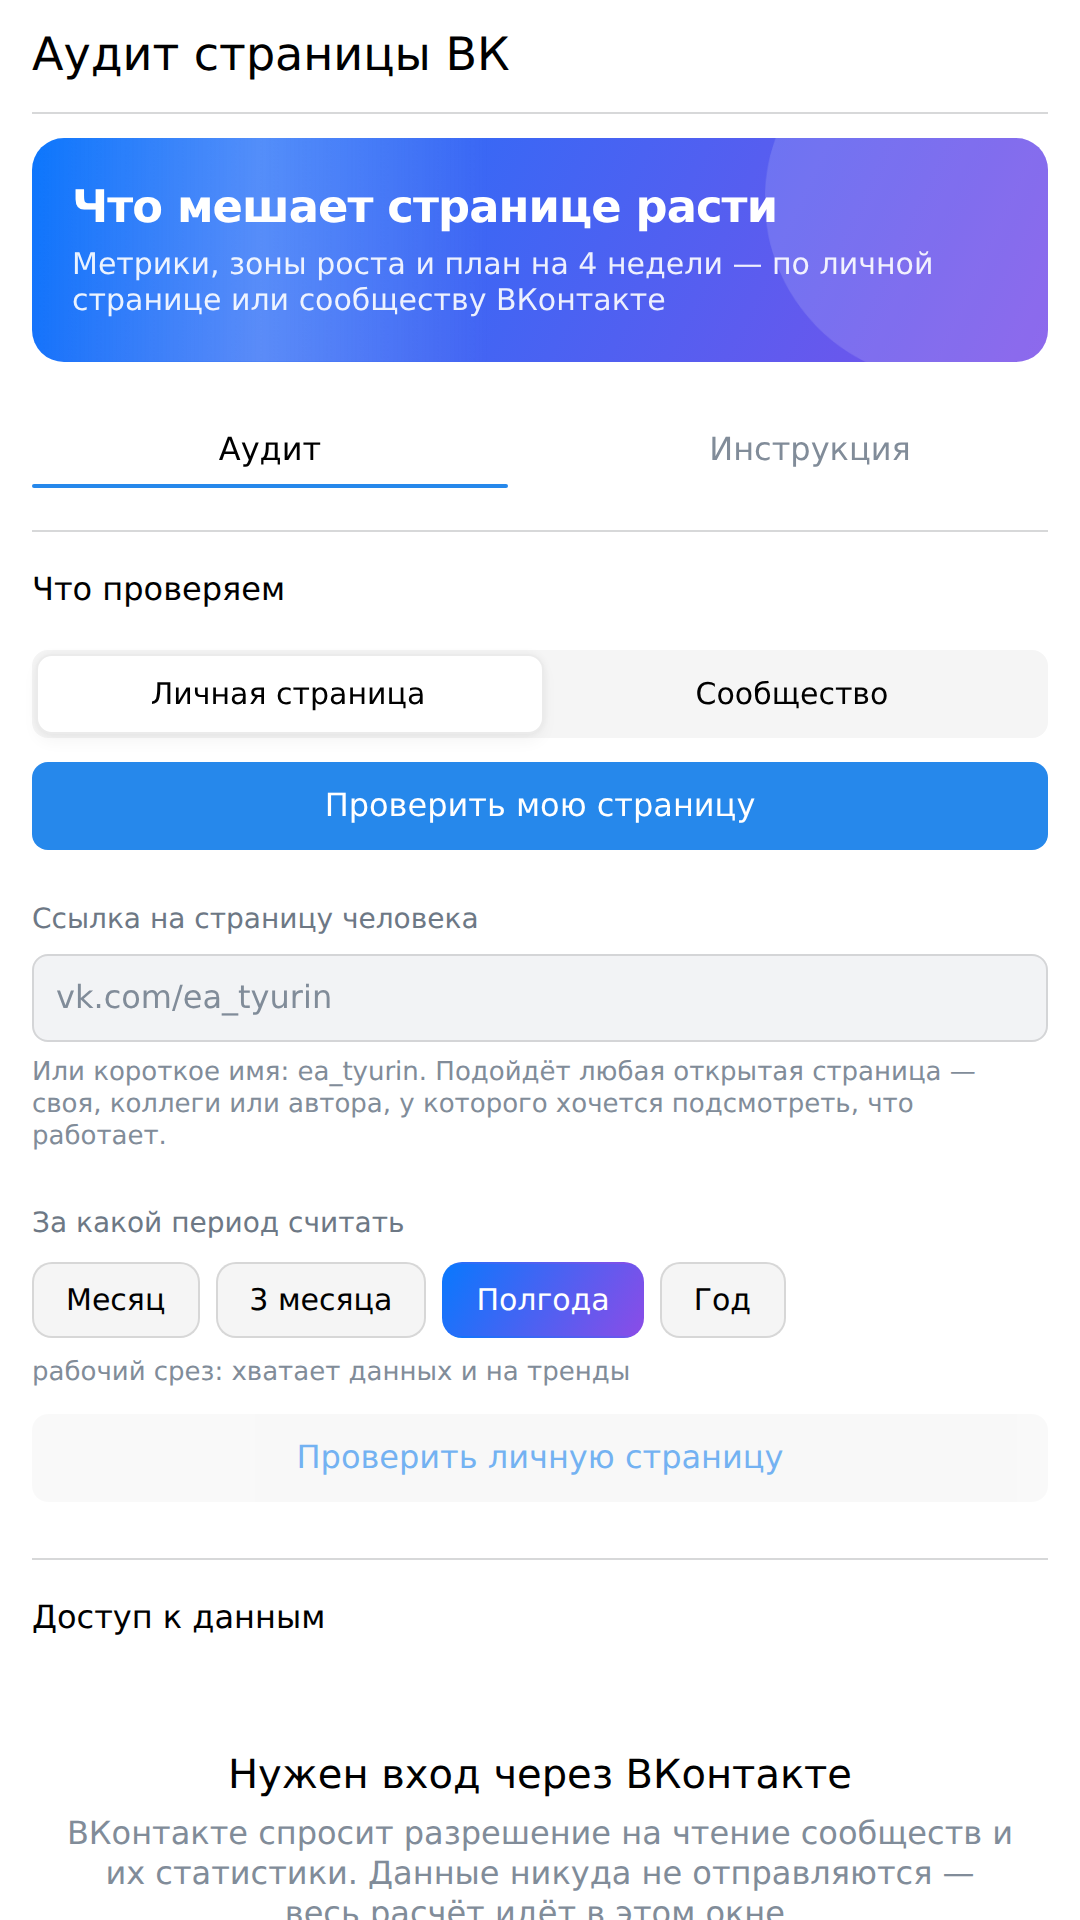
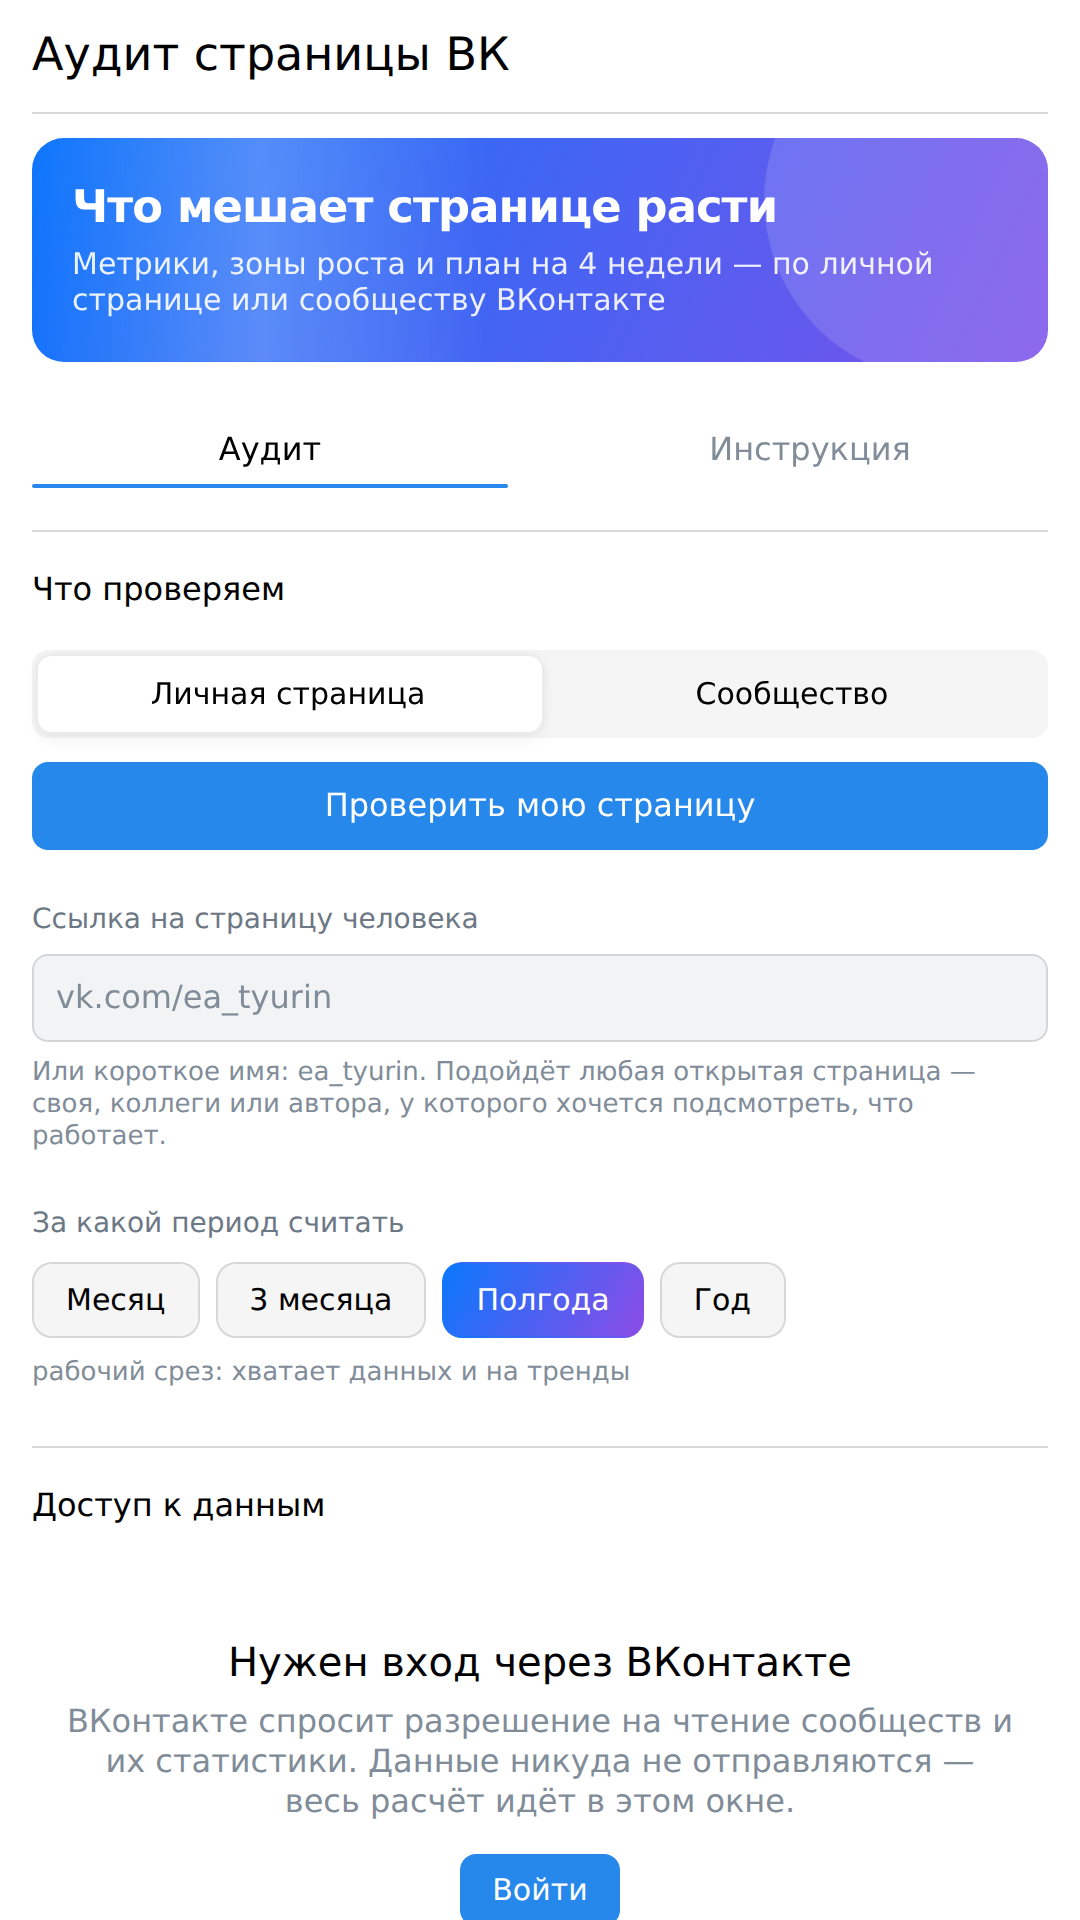
Свайпы в инструкции, убрана неактивная кнопка под периодом
Кнопка «Проверить личную страницу» больше не висит серой под пустым
полем: она появляется вместе с адресом. Неактивная кнопка ничего
не сообщает, а место занимает — особенно рядом с работающей
«Проверить мою страницу», из-за чего казалось, что сломано.

Инструкция листается пальцем. Порог 48 пикселей, и горизонтальное
движение должно перевешивать вертикальное в 1,6 раза — иначе страница
перестала бы прокручиваться: почти любая прокрутка идёт немного вбок.
Экран выезжает с той стороны, откуда пришёл палец.

Под шагами — стрелки, точки-индикатор и подпись «Шаг N из 6».
Вкладки остались: свайп удобен на телефоне, но с компьютера листать
нечем, поэтому там же работают стрелки на клавиатуре.

Свайп проверен настоящими событиями касания через CDP, а не вызовом
обработчика: после движения справа налево приложение показывает
второй шаг.

Скриншоты пересняты — на них теперь стартовый экран без серой кнопки.

Claude-Session: https://claude.ai/code/session_01EZgieUKmpH6o8bzon8hGGc

Changed region(s): [[0.0611, 0.8438, 0.9472, 1.0], [0.0306, 0.75, 0.7333, 0.875]]

diff --git a/apps/vk-audit/src/components/GuideView.tsx b/apps/vk-audit/src/components/GuideView.tsx
@@ -1,5 +1,7 @@
-import { useState } from 'react';
-import { Div, Group, Header, HorizontalScroll, Tabs, TabsItem } from '@vkontakte/vkui';
+import { useCallback, useEffect, useRef, useState } from 'react';
+import {
+  Button, Div, Footnote, Group, Header, HorizontalScroll, Tabs, TabsItem,
+} from '@vkontakte/vkui';
 
 /**
  * Вкладка «Инструкция»: что показывает каждый экран отчёта.
@@ -99,21 +101,72 @@ const STEPS: Step[] = [
   },
 ];
 
+/** Насколько палец должен уехать вбок, чтобы это считалось листанием. */
+const SWIPE_DISTANCE = 48;
+
+/**
+ * И насколько горизонтальное движение должно перевешивать вертикальное.
+ * Без этого страница перестала бы прокручиваться: почти любая прокрутка
+ * идёт немного вбок.
+ */
+const SWIPE_RATIO = 1.6;
+
 export function GuideView() {
-  const [active, setActive] = useState(STEPS[0].id);
-  const step = STEPS.find((s) => s.id === active) ?? STEPS[0];
+  const [index, setIndex] = useState(0);
+  // направление последнего перехода — от него зависит, с какой стороны
+  // выезжает новый экран
+  const [dir, setDir] = useState<'left' | 'right'>('left');
+  const touch = useRef<{ x: number; y: number } | null>(null);
+
+  const step = STEPS[index];
+
+  const go = useCallback((next: number) => {
+    const clamped = Math.max(0, Math.min(STEPS.length - 1, next));
+    if (clamped === index) return;
+    setDir(clamped > index ? 'left' : 'right');
+    setIndex(clamped);
+  }, [index]);
+
+  // стрелки на клавиатуре — для тех, кто открыл приложение с компьютера
+  useEffect(() => {
+    const onKey = (e: KeyboardEvent) => {
+      if (e.key === 'ArrowRight') go(index + 1);
+      if (e.key === 'ArrowLeft') go(index - 1);
+    };
+    window.addEventListener('keydown', onKey);
+    return () => window.removeEventListener('keydown', onKey);
+  }, [go, index]);
+
+  const onTouchStart = (e: React.TouchEvent) => {
+    const point = e.changedTouches[0];
+    touch.current = { x: point.clientX, y: point.clientY };
+  };
+
+  const onTouchEnd = (e: React.TouchEvent) => {
+    const start = touch.current;
+    touch.current = null;
+    if (!start) return;
+
+    const point = e.changedTouches[0];
+    const dx = point.clientX - start.x;
+    const dy = point.clientY - start.y;
+    if (Math.abs(dx) < SWIPE_DISTANCE) return;
+    if (Math.abs(dx) < Math.abs(dy) * SWIPE_RATIO) return;
+
+    go(dx < 0 ? index + 1 : index - 1);
+  };
 
   return (
     <>
       <Group>
         <Tabs layoutFillMode="shrinked" withScrollToSelectedTab scrollBehaviorToSelectedTab="center">
           <HorizontalScroll arrowSize="m">
-            {STEPS.map((item) => (
+            {STEPS.map((item, i) => (
               <TabsItem
                 key={item.id}
                 id={item.id}
-                selected={item.id === active}
-                onClick={() => setActive(item.id)}
+                selected={i === index}
+                onClick={() => go(i)}
               >
                 {item.tab}
               </TabsItem>
@@ -123,12 +176,16 @@ export function GuideView() {
       </Group>
 
       <Group header={<Header>{step.title}</Header>}>
-        <Div>
-          <p className="guide__lead rise">{step.lead}</p>
+        <Div
+          className={`guide__slide guide__slide--${dir}`}
+          key={step.id}
+          onTouchStart={onTouchStart}
+          onTouchEnd={onTouchEnd}
+        >
+          <p className="guide__lead">{step.lead}</p>
 
-          <div className="guide__shot rise rise-1">
+          <div className="guide__shot">
             <img
-              key={step.screen}
               src={`./screens/${step.screen}`}
               alt={step.title}
               loading="lazy"
@@ -138,14 +195,48 @@ export function GuideView() {
           </div>
 
           <ul className="guide__list">
-            {step.points.map(([term, text], i) => (
-              <li key={term} className={`guide__point rise rise-${Math.min(i + 2, 6)}`}>
+            {step.points.map(([term, text]) => (
+              <li key={term} className="guide__point">
                 <b>{term}</b>
                 {' — '}
                 {text}
               </li>
             ))}
           </ul>
+        </Div>
+
+        <Div className="guide__nav">
+          <Button
+            mode="tertiary"
+            size="m"
+            disabled={index === 0}
+            onClick={() => go(index - 1)}
+            aria-label="Предыдущий шаг"
+          >
+            ←
+          </Button>
+
+          <div className="guide__dots" aria-hidden>
+            {STEPS.map((item, i) => (
+              <span key={item.id} className={`guide__dot${i === index ? ' guide__dot--on' : ''}`} />
+            ))}
+          </div>
+
+          <Button
+            mode="tertiary"
+            size="m"
+            disabled={index === STEPS.length - 1}
+            onClick={() => go(index + 1)}
+            aria-label="Следующий шаг"
+          >
+            →
+          </Button>
+        </Div>
+
+        <Div style={{ paddingTop: 0 }}>
+          <Footnote style={{ color: 'var(--vkui--color_text_tertiary)', textAlign: 'center', display: 'block' }}>
+            {`Шаг ${index + 1} из ${STEPS.length} — листайте влево и вправо`}
+          </Footnote>
         </Div>
       </Group>
     </>

diff --git a/apps/vk-audit/src/index.css b/apps/vk-audit/src/index.css
@@ -79,6 +79,9 @@ body,
   .bar,
   .kpi,
   .chip,
+  .guide__slide--left,
+  .guide__slide--right,
+  .guide__dot,
   .chip--on,
   .spinner-dot,
   .hero--live,
@@ -449,4 +452,65 @@ body,
   background: linear-gradient(135deg,
     hsl(var(--accent-blue)),
     hsl(var(--accent-violet)));
+}
+
+/* ------------------------------------------------ листание инструкции */
+@keyframes slide-from-right {
+  from {
+    opacity: 0;
+    transform: translateX(28px);
+  }
+  to {
+    opacity: 1;
+    transform: none;
+  }
+}
+
+@keyframes slide-from-left {
+  from {
+    opacity: 0;
+    transform: translateX(-28px);
+  }
+  to {
+    opacity: 1;
+    transform: none;
+  }
+}
+
+/* Экран выезжает с той стороны, откуда пришёл палец: свайп влево
+   листает вперёд, и следующий шаг приходит справа. */
+.guide__slide--left {
+  animation: slide-from-right 0.26s ease-out both;
+}
+
+.guide__slide--right {
+  animation: slide-from-left 0.26s ease-out both;
+}
+
+.guide__nav {
+  display: flex;
+  align-items: center;
+  justify-content: space-between;
+  gap: 12px;
+  padding-bottom: 4px;
+}
+
+.guide__dots {
+  display: flex;
+  gap: 7px;
+}
+
+.guide__dot {
+  width: 7px;
+  height: 7px;
+  border-radius: 50%;
+  background: var(--vkui--color_icon_tertiary);
+  opacity: 0.35;
+  transition: opacity 0.2s ease, transform 0.2s ease, background 0.2s ease;
+}
+
+.guide__dot--on {
+  opacity: 1;
+  transform: scale(1.25);
+  background: hsl(var(--accent-blue));
 }

diff --git a/apps/vk-audit/src/panels/StartPanel.tsx b/apps/vk-audit/src/panels/StartPanel.tsx
@@ -152,17 +152,20 @@ export function StartPanel({
               </HorizontalScroll>
             </FormItem>
 
-            <Div style={{ paddingTop: 0 }}>
-              <Button
-                size="l"
-                stretched
-                mode={mode === 'user' && selfId !== null ? 'secondary' : 'primary'}
-                disabled={!target.trim()}
-                onClick={() => onAudit(target.trim())}
-              >
-                {copy.submit}
-              </Button>
-            </Div>
+            {/* кнопка появляется вместе с адресом: серая неактивная кнопка
+                под пустым полем ничего не сообщает, а место занимает */}
+            {target.trim() && (
+              <Div style={{ paddingTop: 0 }}>
+                <Button
+                  size="l"
+                  stretched
+                  className="rise"
+                  onClick={() => onAudit(target.trim())}
+                >
+                  {copy.submit}
+                </Button>
+              </Div>
+            )}
           </Group>
 
           {!signedIn && (
